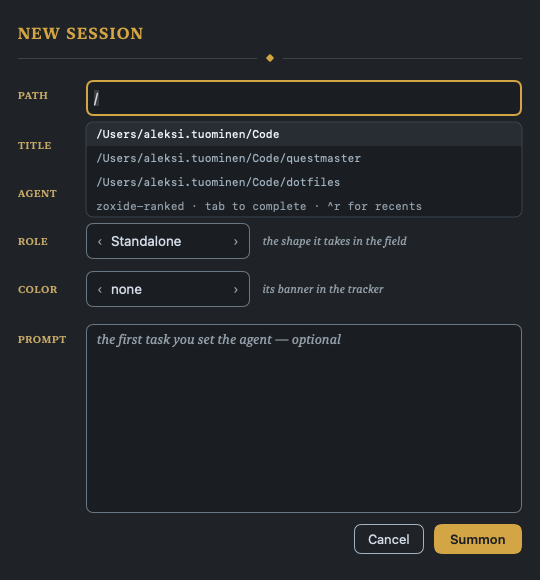
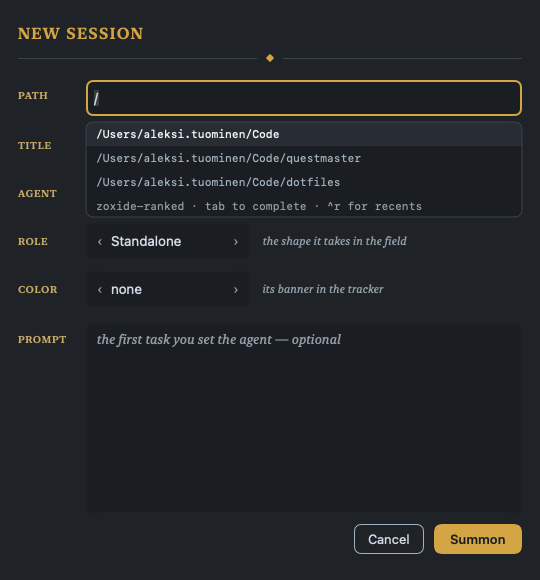
Dim inactive surface borders

diff --git a/app/Sources/App/Shell/ShellPaneContainers.swift b/app/Sources/App/Shell/ShellPaneContainers.swift
@@ -20,7 +20,7 @@ private final class FirstMouseHostingView<Content: View>: NSHostingView<Content>
 private func configureSideCard(_ view: NSView) {
     view.wantsLayer = true
     view.layer?.backgroundColor = AppPalette.panel.cgColor
-    view.layer?.borderColor = AppPalette.controlBorder.cgColor
+    view.layer?.borderColor = AppPalette.lineSoftSubtle.cgColor
     view.layer?.borderWidth = 1
     view.layer?.cornerRadius = ShellMetrics.sideCardCornerRadius
     view.layer?.masksToBounds = true
@@ -65,7 +65,7 @@ final class TrackerShellView: NSView {
     }
 
     func setRegionActive(_ active: Bool) {
-        layer?.borderColor = (active ? AppPalette.activeSideCardBorder : AppPalette.controlBorder).cgColor
+        layer?.borderColor = (active ? AppPalette.activeSideCardBorder : AppPalette.lineSoftSubtle).cgColor
     }
 }
 
@@ -174,7 +174,7 @@ final class DockShellView: NSView {
     }
 
     func setRegionActive(_ active: Bool) {
-        layer?.borderColor = (active ? AppPalette.activeSideCardBorder : AppPalette.controlBorder).cgColor
+        layer?.borderColor = (active ? AppPalette.activeSideCardBorder : AppPalette.lineSoftSubtle).cgColor
     }
 
     func updateTabs(

diff --git a/app/Sources/App/Dock/QuestDockView.swift b/app/Sources/App/Dock/QuestDockView.swift
@@ -86,7 +86,7 @@ struct QuestDockView: View {
         .background(
             RoundedRectangle(cornerRadius: Token.Radius.control)
                 .fill(AppPalette.panelAlt.swiftUI)
-                .overlay(RoundedRectangle(cornerRadius: Token.Radius.control).strokeBorder((filterFocused ? AppPalette.accent : AppPalette.controlBorder).swiftUI, lineWidth: 1))
+                .overlay(RoundedRectangle(cornerRadius: Token.Radius.control).strokeBorder((filterFocused ? AppPalette.accent : AppPalette.lineSoftSubtle).swiftUI, lineWidth: 1))
         )
         .accessibilityLabel("Filter quests")
     }

diff --git a/app/Sources/App/Dock/Artifact/ArtifactDockView.swift b/app/Sources/App/Dock/Artifact/ArtifactDockView.swift
@@ -146,7 +146,7 @@ struct ArtifactDockView: View {
                 .fill(AppPalette.panelAlt.swiftUI)
                 .overlay(
                     RoundedRectangle(cornerRadius: Token.Radius.control)
-                        .strokeBorder((filterFocused ? AppPalette.accent : AppPalette.controlBorder).swiftUI, lineWidth: 1)
+                        .strokeBorder((filterFocused ? AppPalette.accent : AppPalette.lineSoftSubtle).swiftUI, lineWidth: 1)
                 )
         )
         .accessibilityLabel("Filter artifacts")

diff --git a/app/Sources/App/SharedUI/Theme.swift b/app/Sources/App/SharedUI/Theme.swift
@@ -10,8 +10,8 @@ enum AppPalette {
     static let artifactViewerBackground = artifactListColumn
     static let terminal = window
     static let line = NSColor(hex: 0x444c56)
-    static let lineSoft = NSColor(hex: 0x23282e)
-    static let lineSoftSubtle = NSColor(hex: 0x1c2228)
+    static let lineSoft = NSColor(hex: 0x282d35)
+    static let lineSoftSubtle = NSColor(hex: 0x1f242b)
     static let controlFill = item
     static let controlBorder = NSColor(hex: 0x768390)
     static let activeControlBorder = muted

diff --git a/app/Sources/App/SharedUI/ViewModifiers.swift b/app/Sources/App/SharedUI/ViewModifiers.swift
@@ -8,7 +8,7 @@ extension View {
     ) -> some View {
         overlay(
             RoundedRectangle(cornerRadius: cornerRadius)
-                .strokeBorder((focused ? AppPalette.accent : AppPalette.controlBorder).swiftUI, lineWidth: focused ? 2 : 1)
+                .strokeBorder((focused ? AppPalette.accent : AppPalette.lineSoftSubtle).swiftUI, lineWidth: focused ? 2 : 1)
         )
     }
 

diff --git a/app/Sources/App/SharedUI/SegmentedPicker.swift b/app/Sources/App/SharedUI/SegmentedPicker.swift
@@ -41,7 +41,7 @@ struct SegmentedPicker<Option: Hashable>: View {
         }
         .padding(Token.Spacing.tight)
         .frame(maxWidth: .infinity)
-        .borderedCard(fill: AppPalette.panel, borderColor: AppPalette.controlBorder)
+        .borderedCard(fill: AppPalette.panel, borderColor: AppPalette.lineSoftSubtle)
     }
 }
 

diff --git a/app/Sources/App/SharedUI/ItemCard.swift b/app/Sources/App/SharedUI/ItemCard.swift
@@ -37,7 +37,7 @@ struct ItemCardShape: View {
     private var isHighlighted: Bool { selected || hovered }
 
     private var borderColor: NSColor {
-        isHighlighted ? AppPalette.hoverBorder : AppPalette.controlBorder
+        isHighlighted ? AppPalette.hoverBorder : AppPalette.lineSoft
     }
 
     var body: some View {
